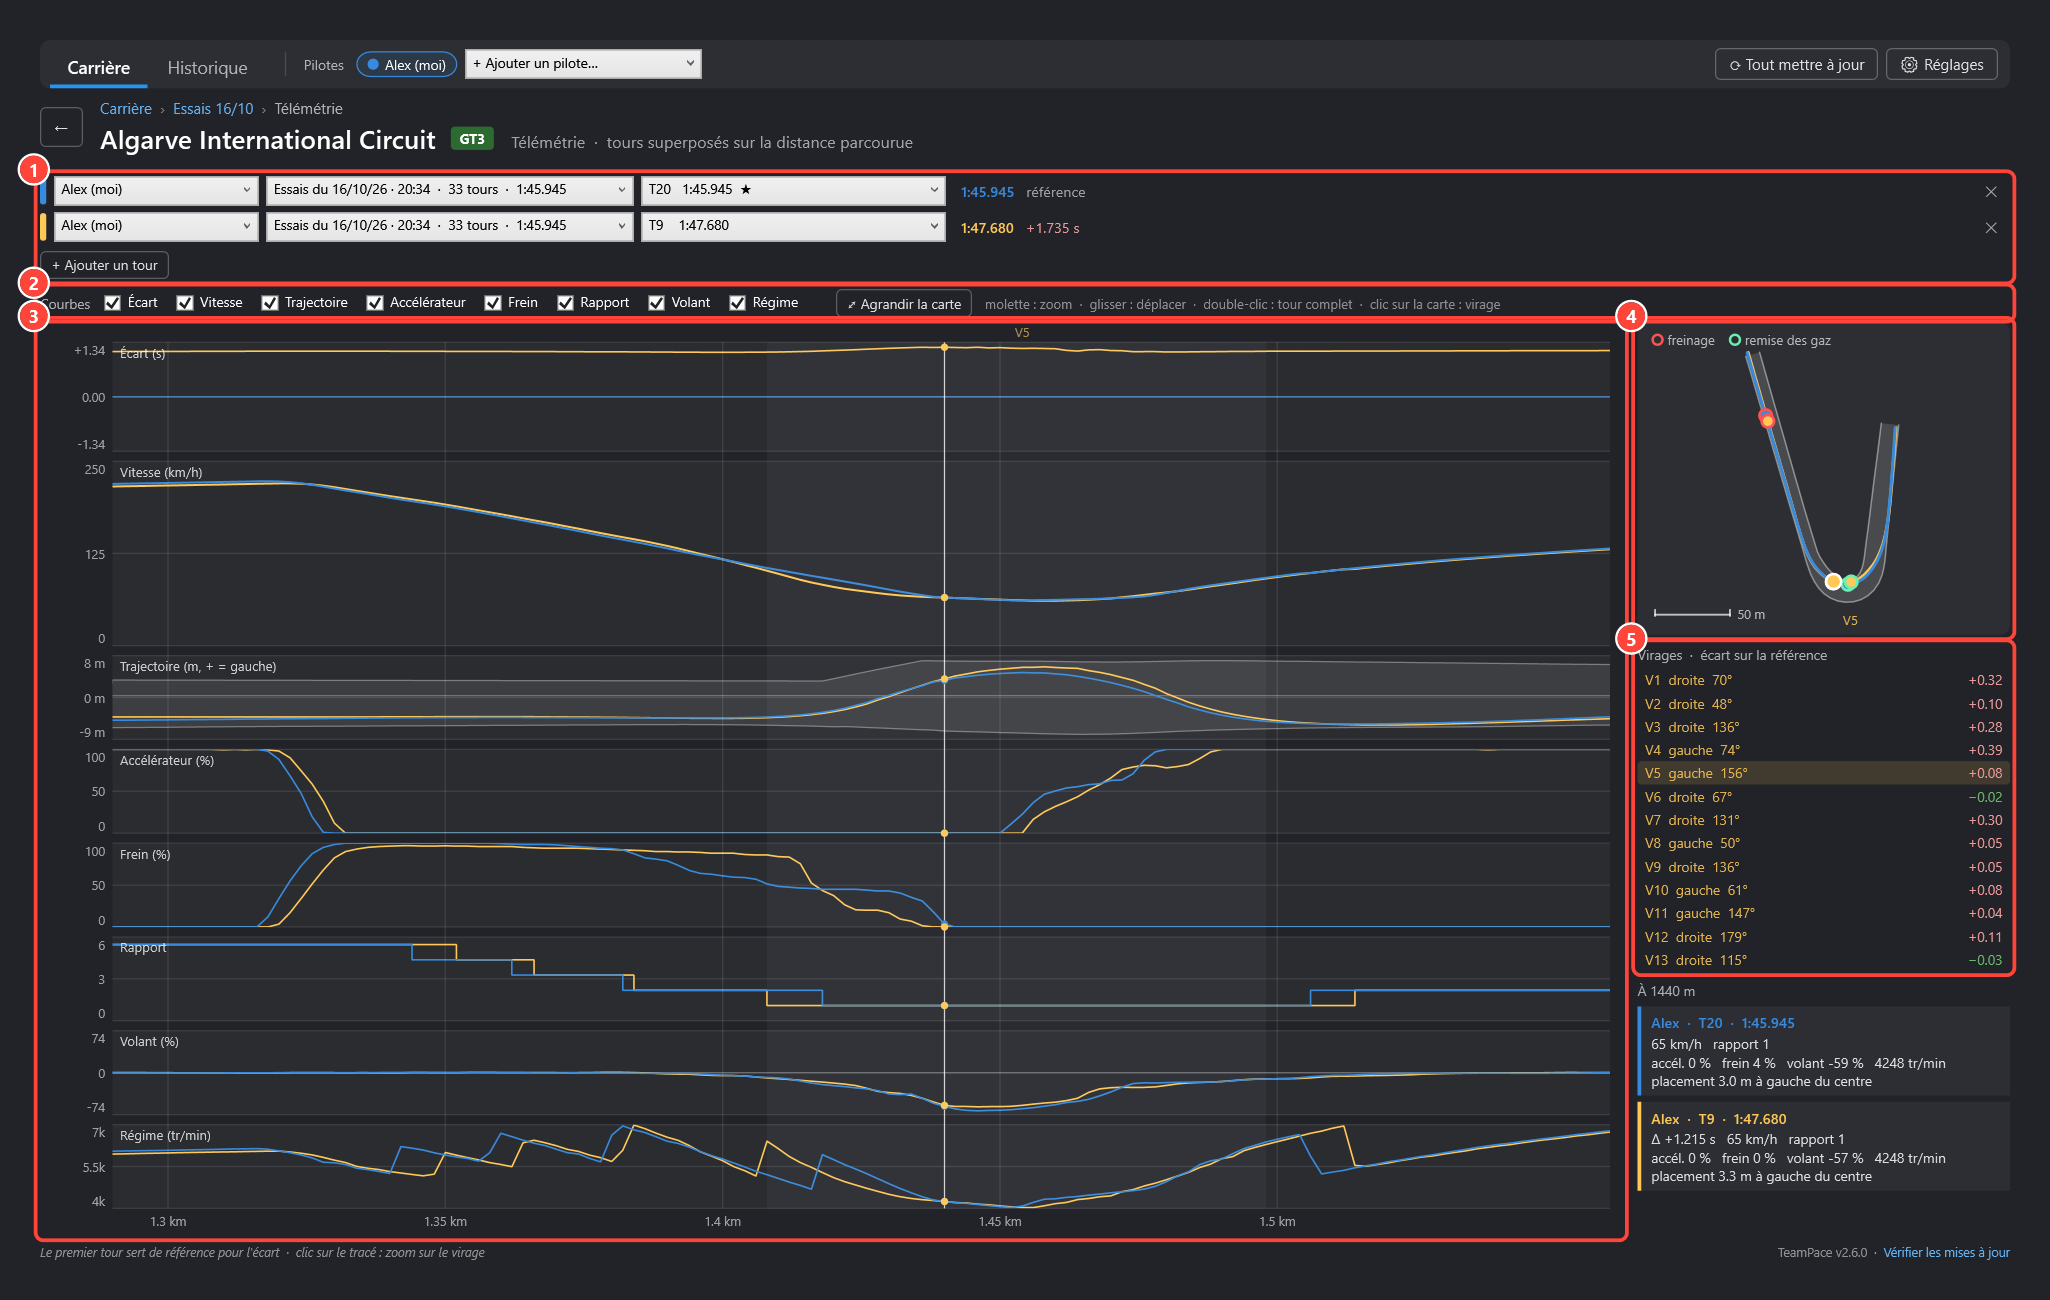
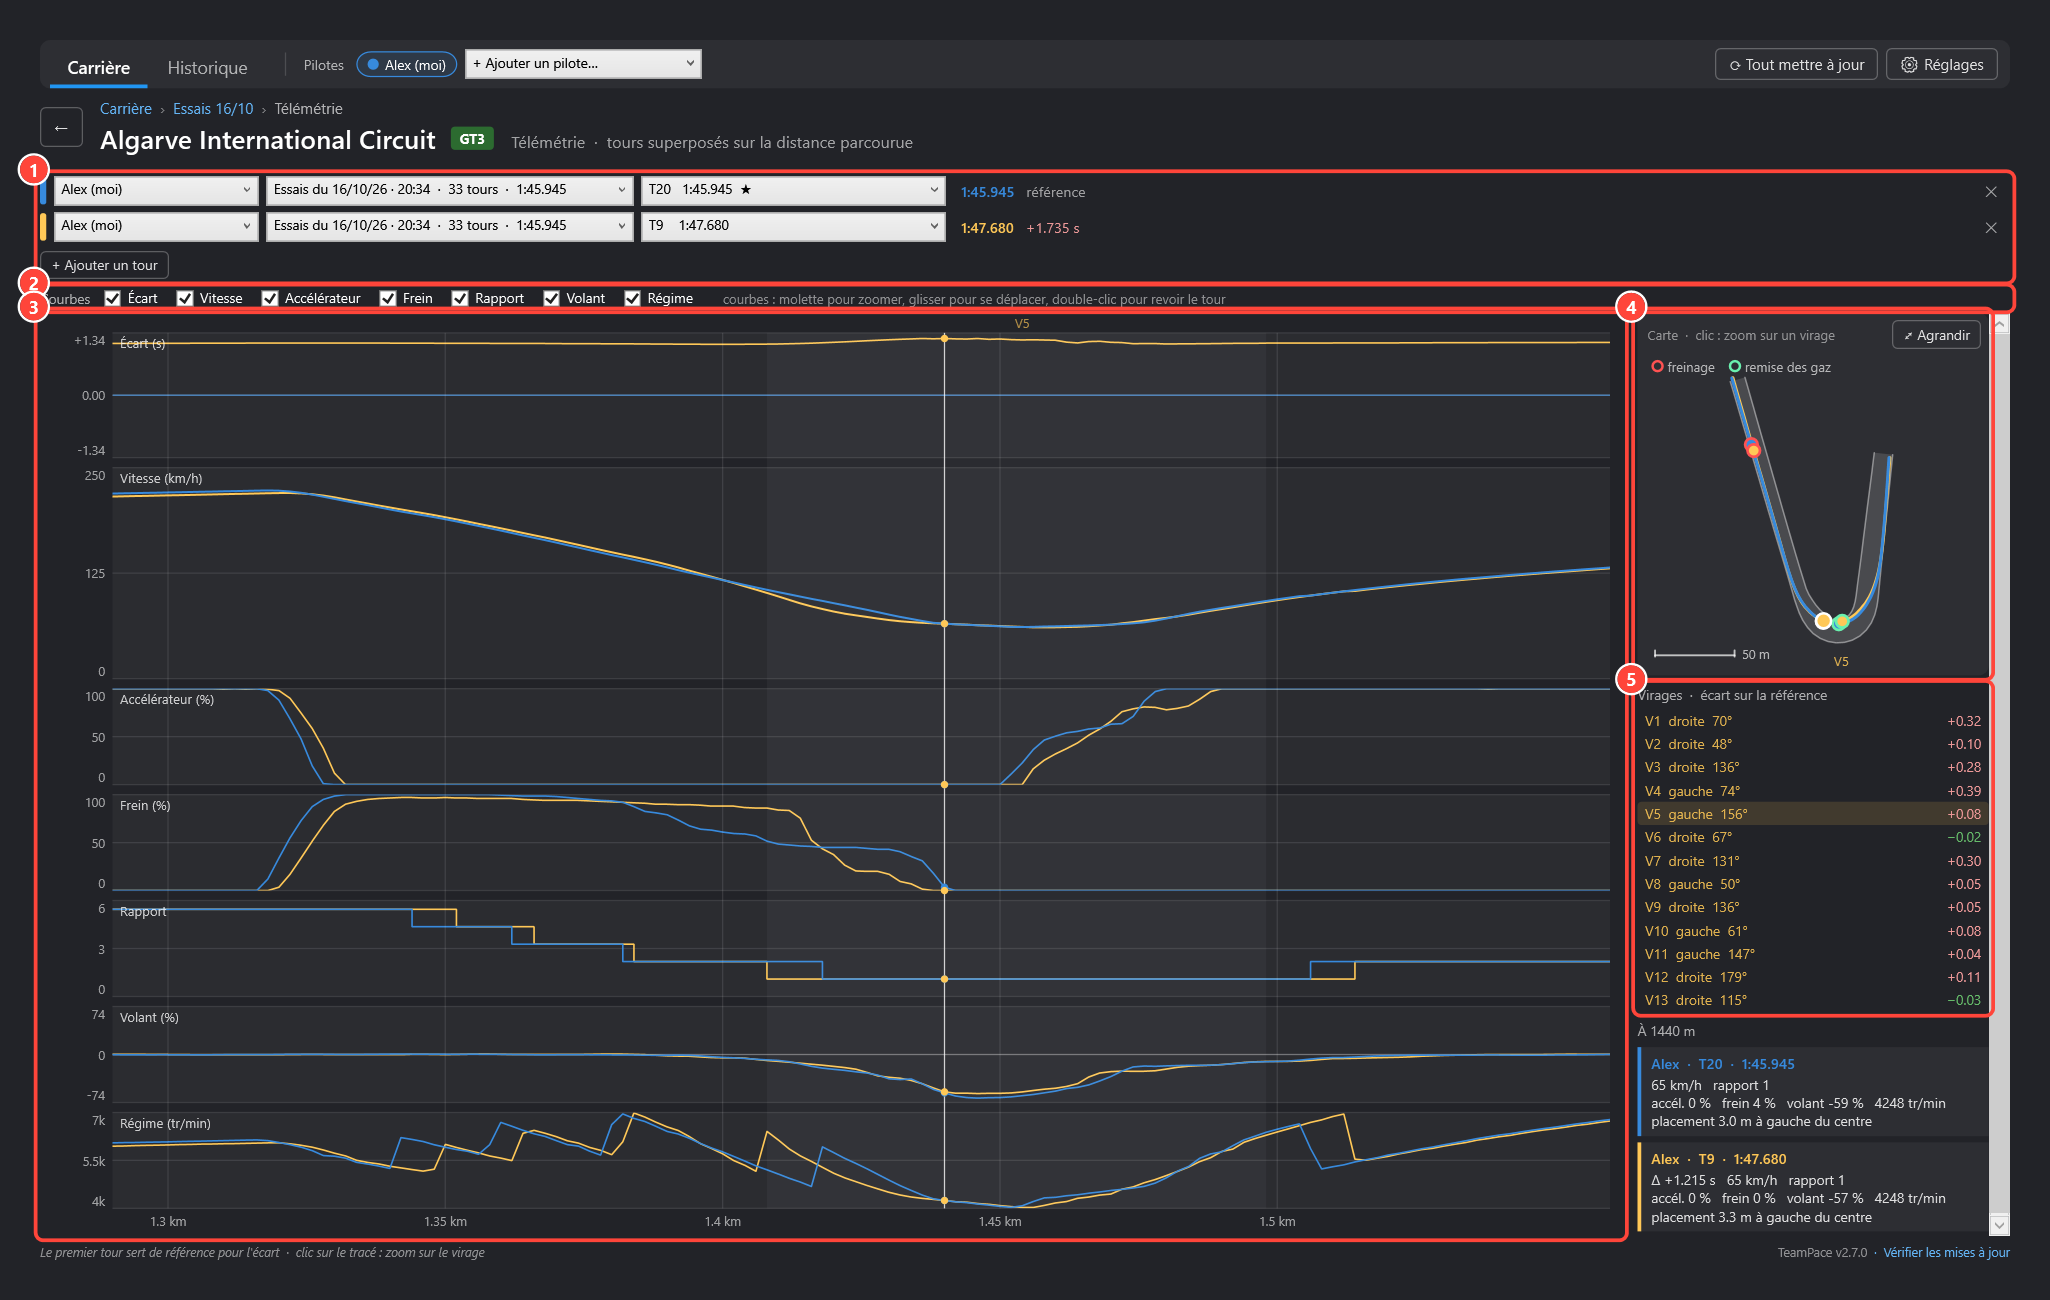
Team-wide track model, drop trajectory curve, map controls on the map

diff --git a/TelemetryChart.cs b/TelemetryChart.cs
@@ -8,7 +8,7 @@ using System.Windows.Media;
 
 namespace User.TeamPace
 {
-    public enum TeleChannel { Delta, Speed, Line, Throttle, Brake, Gear, Steer, Rpm }
+    public enum TeleChannel { Delta, Speed, Throttle, Brake, Gear, Steer, Rpm }
 
     /// <summary>
     /// Stacked telemetry panels sharing a lap-distance axis. Traces are drawn on one layer
@@ -25,7 +25,7 @@ namespace User.TeamPace
         }
 
         public static readonly TeleChannel[] Channels =
-            { TeleChannel.Delta, TeleChannel.Speed, TeleChannel.Line, TeleChannel.Throttle, TeleChannel.Brake,
+            { TeleChannel.Delta, TeleChannel.Speed, TeleChannel.Throttle, TeleChannel.Brake,
               TeleChannel.Gear, TeleChannel.Steer, TeleChannel.Rpm };
 
         public static string Title(TeleChannel c)
@@ -34,7 +34,6 @@ namespace User.TeamPace
             {
                 case TeleChannel.Delta:    return "Écart (s)";
                 case TeleChannel.Speed:    return "Vitesse (km/h)";
-                case TeleChannel.Line:     return "Trajectoire (m, + = gauche)";
                 case TeleChannel.Throttle: return "Accélérateur (%)";
                 case TeleChannel.Brake:    return "Frein (%)";
                 case TeleChannel.Gear:     return "Rapport";
@@ -95,7 +94,7 @@ namespace User.TeamPace
             Redraw();
         }
 
-        /// <summary>Track edges for the trajectory panel and corner names above the panels.</summary>
+        /// <summary>Corner names and spans above the panels.</summary>
         public void SetTrack(TrackModel track)
         {
             _track = track;
@@ -150,7 +149,6 @@ namespace User.TeamPace
             {
                 case TeleChannel.Delta:    return t.Delta != null ? t.Delta[i] : 0;
                 case TeleChannel.Speed:    return d.Speed[i];
-                case TeleChannel.Line:     return d.Lateral != null ? -d.Lateral[i] : double.NaN;
                 case TeleChannel.Throttle: return d.Throttle[i];
                 case TeleChannel.Brake:    return d.Brake[i];
                 case TeleChannel.Gear:     return d.Gear[i];
@@ -166,20 +164,6 @@ namespace User.TeamPace
             {
                 case TeleChannel.Throttle:
                 case TeleChannel.Brake: lo = 0; hi = 100; return;
-                case TeleChannel.Line:
-                    if (_track != null)
-                    {
-                        // The whole track width over the visible part
-                        double l = 0, r = 0;
-                        for (double d = _x0; d <= _x1; d += TrackModel.Step)
-                        {
-                            int k = _track.Index(d);
-                            l = Math.Max(l, _track.EdgeLeft[k]); r = Math.Max(r, _track.EdgeRight[k]);
-                        }
-                        lo = -r - 1; hi = l + 1;
-                        return;
-                    }
-                    break;
             }
             double min = double.MaxValue, max = double.MinValue;
             foreach (var t in _traces)
@@ -205,8 +189,6 @@ namespace User.TeamPace
                 case TeleChannel.Steer:
                     double s = Math.Max(5, Math.Max(Math.Abs(min), Math.Abs(max)) * 1.1);
                     lo = -s; hi = s; return;
-                case TeleChannel.Line:
-                    lo = Math.Floor(min) - 1; hi = Math.Ceiling(max) + 1; return;
                 case TeleChannel.Gear:
                     lo = 0; hi = Math.Max(2, max) + 0.5; return;
                 case TeleChannel.Speed:
@@ -234,8 +216,6 @@ namespace User.TeamPace
         private static readonly Typeface Face   = new Typeface("Segoe UI");
         private static readonly Brush CornerBg    = Frozen(Color.FromArgb(9, 255, 255, 255));
         private static readonly Brush CornerBrush = Frozen(Color.FromArgb(170, 255, 200, 87));
-        private static readonly Brush TrackFill   = Frozen(Color.FromArgb(22, 255, 255, 255));
-        private static readonly Pen   EdgePen     = FrozenPen(Color.FromArgb(90, 255, 255, 255), 1);
 
         private void DrawTraces(DrawingContext dc)
         {
@@ -267,7 +247,6 @@ namespace User.TeamPace
                 }
 
                 dc.PushClip(new RectangleGeometry(r));
-                if (c == TeleChannel.Line && _track != null) DrawTrackBand(dc, r, lo, hi);
                 // Reference last, so it stays readable on top of the others
                 for (int k = _traces.Count - 1; k >= 0; k--) DrawSeries(dc, _traces[k], c, r, lo, hi);
                 dc.Pop();
@@ -304,25 +283,6 @@ namespace User.TeamPace
                          x, last.Bottom + 10, TextAlignment.Center, TextBrush, 10);
                 }
             }
-        }
-
-        /// <summary>Track surface between both edges, as seen from the driver (left up).</summary>
-        private void DrawTrackBand(DrawingContext dc, Rect r, double lo, double hi)
-        {
-            var geo = new StreamGeometry();
-            using (var g = geo.Open())
-            {
-                bool first = true;
-                for (double d = _x0; d <= _x1 + TrackModel.Step; d += TrackModel.Step)
-                {
-                    var p = new Point(X(d), Y(r, _track.EdgeLeft[_track.Index(d)], lo, hi));
-                    if (first) { g.BeginFigure(p, true, true); first = false; } else g.LineTo(p, true, false);
-                }
-                for (double d = _x1 + TrackModel.Step; d >= _x0 - TrackModel.Step; d -= TrackModel.Step)
-                    g.LineTo(new Point(X(d), Y(r, -_track.EdgeRight[_track.Index(d)], lo, hi)), true, false);
-            }
-            geo.Freeze();
-            dc.DrawGeometry(TrackFill, EdgePen, geo);
         }
 
         private void DrawSeries(DrawingContext dc, Trace t, TeleChannel c, Rect r, double lo, double hi)
@@ -392,7 +352,6 @@ namespace User.TeamPace
             {
                 case TeleChannel.Delta: return (v > 0 ? "+" : "") + v.ToString("0.00", CultureInfo.InvariantCulture);
                 case TeleChannel.Gear:  return Math.Round(v).ToString(CultureInfo.InvariantCulture);
-                case TeleChannel.Line:  return v.ToString("0", CultureInfo.InvariantCulture) + " m";
                 case TeleChannel.Rpm:   return (v / 1000).ToString("0.#", CultureInfo.InvariantCulture) + "k";
                 default:                return Math.Round(v).ToString(CultureInfo.InvariantCulture);
             }

diff --git a/TelemetryView.cs b/TelemetryView.cs
@@ -65,14 +65,18 @@ namespace User.TeamPace
         {
             Background = new SolidColorBrush(Color.FromArgb(13, 255, 255, 255)), CornerRadius = new CornerRadius(8),
             Padding = new Thickness(4),
-            ToolTip = "Clic : zoom sur ce virage  ·  molette : zoom  ·  survol : valeurs à cet endroit",
+        };
+        private readonly TextBlock _mapHint = new TextBlock
+        {
+            FontSize = 10.5, Foreground = new SolidColorBrush(Color.FromArgb(128, 255, 255, 255)),
+            VerticalAlignment = VerticalAlignment.Center, TextTrimming = TextTrimming.CharacterEllipsis,
         };
         private readonly Grid _center = new Grid();
         private readonly StackPanel _side = new StackPanel { Margin = new Thickness(12, 0, 0, 0) };
         private readonly ScrollViewer _sideScroll = new ScrollViewer { VerticalScrollBarVisibility = ScrollBarVisibility.Auto };
         private readonly StackPanel _cornerPanel = new StackPanel { Margin = new Thickness(0, 8, 0, 0) };
         private readonly StackPanel _readout = new StackPanel { Margin = new Thickness(0, 8, 0, 0) };
-        private readonly Button _btnLarge = new Button { Margin = new Thickness(16, 0, 0, 0), VerticalAlignment = VerticalAlignment.Center };
+        private readonly Button _btnLarge = new Button { Margin = new Thickness(8, 0, 0, 0), VerticalAlignment = VerticalAlignment.Center };
         private static bool _large;   // kept while browsing laps
         private TrackModel _model;
         private readonly List<Border> _cornerRows = new List<Border>();
@@ -173,8 +177,8 @@ namespace User.TeamPace
         private static readonly Dictionary<string, TrackModel> Models = new Dictionary<string, TrackModel>();
 
         /// <summary>
-        /// Centre line, edges and corners rebuilt from the fastest clean laps of every displayed
-        /// driver on this circuit (up to 40), cached for the session.
+        /// Centre line, edges and corners rebuilt from the fastest clean laps of the whole team on
+        /// this circuit (up to 40), displayed or not: more laps, more complete track edges.
         /// </summary>
         private TrackModel BuildModel()
         {
@@ -182,6 +186,12 @@ namespace User.TeamPace
             foreach (var kv in _laps)
                 foreach (var l in kv.Value)
                     if (l.IsClean && l.File.Version >= 2) laps.Add(l);
+            foreach (var mate in LmuTeamSync.GetDrivers())
+            {
+                if (_laps.ContainsKey(mate.DbPath ?? "")) continue;
+                foreach (var l in TelemetryService.GetLaps(new DriverView(mate, DriverView.Palette[0]), _circuit))
+                    if (l.IsClean && l.File.Version >= 2) laps.Add(l);
+            }
             if (laps.Count == 0) return null;
             laps.Sort((a, b) => a.LapSec.CompareTo(b.LapSec));
             if (laps.Count > 40) laps.RemoveRange(40, laps.Count - 40);
@@ -219,7 +229,16 @@ namespace User.TeamPace
             top.Children.Add(_toggles);
             root.Children.Add(top);
 
-            _mapHost.Child = _map;
+            // Map header: what the map does and the enlarge button, right on top of it
+            var mapHeader = new DockPanel { Margin = new Thickness(4, 2, 2, 4) };
+            DockPanel.SetDock(_btnLarge, Dock.Right);
+            mapHeader.Children.Add(_btnLarge);
+            mapHeader.Children.Add(_mapHint);
+            var mapDock = new DockPanel();
+            DockPanel.SetDock(mapHeader, Dock.Top);
+            mapDock.Children.Add(mapHeader);
+            mapDock.Children.Add(_map);
+            _mapHost.Child = mapDock;
             _side.Children.Add(_cornerPanel);
             _side.Children.Add(_readout);
             _sideScroll.Content = _side;
@@ -262,7 +281,7 @@ namespace User.TeamPace
             }
             else
             {
-                _mapHost.Height = 250;
+                _mapHost.Height = 290;
                 _mapHost.Margin = new Thickness(0);
                 _side.Children.Insert(0, _mapHost);
                 Grid.SetRow(_chart, 0); Grid.SetRow(_empty, 0);
@@ -274,7 +293,9 @@ namespace User.TeamPace
             _map.IsLarge = _large;
             _map.InvalidateVisual();
             if (_toggles.Children.Count > 0) { BuildToggles(); _chart.SetVisible(VisibleList()); }
-            _btnLarge.Content = _large ? "⤡ Réduire la carte" : "⤢ Agrandir la carte";
+            _btnLarge.Content = _large ? "⤡ Réduire" : "⤢ Agrandir";
+            _mapHint.Text = _large ? "Carte  ·  clic sur un virage : zoom  ·  molette : zoom avant / arrière"
+                                   : "Carte  ·  clic : zoom sur un virage";
         }
 
         private void ZoomOnCorner(double dist)
@@ -301,10 +322,9 @@ namespace User.TeamPace
                 cb.Unchecked += (s, e) => { Visible.Remove(channel); _chart.SetVisible(VisibleList()); };
                 _toggles.Children.Add(cb);
             }
-            _toggles.Children.Add(_btnLarge);
             _toggles.Children.Add(new TextBlock
             {
-                Text = "molette : zoom  ·  glisser : déplacer  ·  double-clic : tour complet  ·  clic sur la carte : virage",
+                Text = "courbes : molette pour zoomer, glisser pour se déplacer, double-clic pour revoir le tour",
                 FontSize = 10.5, Foreground = new SolidColorBrush(Color.FromArgb(128, 255, 255, 255)),
                 VerticalAlignment = VerticalAlignment.Center, Margin = new Thickness(10, 0, 0, 0),
             });

diff --git a/README.md b/README.md
@@ -224,23 +224,24 @@ analyse ou d'une progression, ou d'un **double-clic sur un tour** du tableau.
 1. **Un tour par ligne**, jusqu'à 4 : pilote, séance (ou *Toutes les séances* pour choisir parmi
    les meilleurs tours du circuit) et tour. Le premier tour sert de **référence**.
 2. **Courbes** : cochez celles à afficher. L'**écart** montre, mètre par mètre, le temps gagné ou
-   perdu sur la référence : une courbe qui monte, c'est du temps perdu. La **trajectoire** montre
-   le placement de chaque voiture sur la largeur de la piste (en gris).
+   perdu sur la référence : une courbe qui monte, c'est du temps perdu.
 3. **Molette** pour zoomer, **glisser** pour se déplacer, **double-clic** pour revoir le tour entier.
    Au survol, les valeurs de chaque tour à cet endroit s'affichent à droite.
 4. **La carte** suit le zoom des courbes : piste avec ses bords, ligne de chaque tour, point de
    **début de freinage** (anneau rouge) et de **remise des gaz** (anneau vert) de chaque pilote.
-   Un clic sur un virage zoome dessus, la molette zoome aussi depuis la carte.
+   Un clic sur un virage zoome dessus, la molette zoome aussi depuis la carte. Le bouton
+   **⤢ Agrandir**, en haut de la carte, la passe en grand.
 5. **Virages** : détectés automatiquement, avec le temps gagné ou perdu sur la référence dans
    chacun (leur somme fait l'écart au tour). Un clic sur un virage zoome dessus.
 
-**⤢ Agrandir la carte** la passe en grand, les courbes principales restant dessous, pour comparer
-précisément trajectoires, freinages et remises des gaz :
+Carte agrandie : les courbes principales restent dessous, pour comparer précisément trajectoires,
+freinages et remises des gaz :
 
 ![Carte agrandie sur un virage](docs/images/11-carte-virage.png)
 
 Les trajectoires sont reconstruites à partir du placement latéral enregistré par LMU, précis au
-centimètre, sur un tracé moyen calculé avec vos meilleurs tours du circuit.
+centimètre, sur un tracé moyen calculé automatiquement avec les meilleurs tours de toute l'équipe
+sur ce circuit : chaque circuit roulé par l'un d'entre vous a son tracé, sans rien à configurer.
 
 La télémétrie est extraite automatiquement à la fin de chaque session, et à la demande avec
 **⟳ Tout mettre à jour**. Tout votre historique depuis l'activation de la télémétrie dans LMU est

diff --git a/CHANGELOG.md b/CHANGELOG.md
@@ -3,6 +3,13 @@
 Chaque version est publiée dans les [releases](../../releases) et proposée automatiquement dans
 TeamPace par le bandeau de mise à jour.
 
+## 2.7.1
+
+- Le tracé des circuits (bords de piste, virages) utilise les tours de toute l'équipe, même des
+  pilotes non affichés : un circuit roulé par un seul coéquipier a quand même son tracé.
+- La courbe « Trajectoire » est retirée : la carte montre les trajectoires plus clairement.
+- Les commandes de la carte (« ⤢ Agrandir », clic, molette) sont regroupées en haut de la carte.
+
 ## 2.7.0
 
 - **Trajectoires** : la carte suit le zoom des courbes et montre la piste avec ses bords, la ligne
